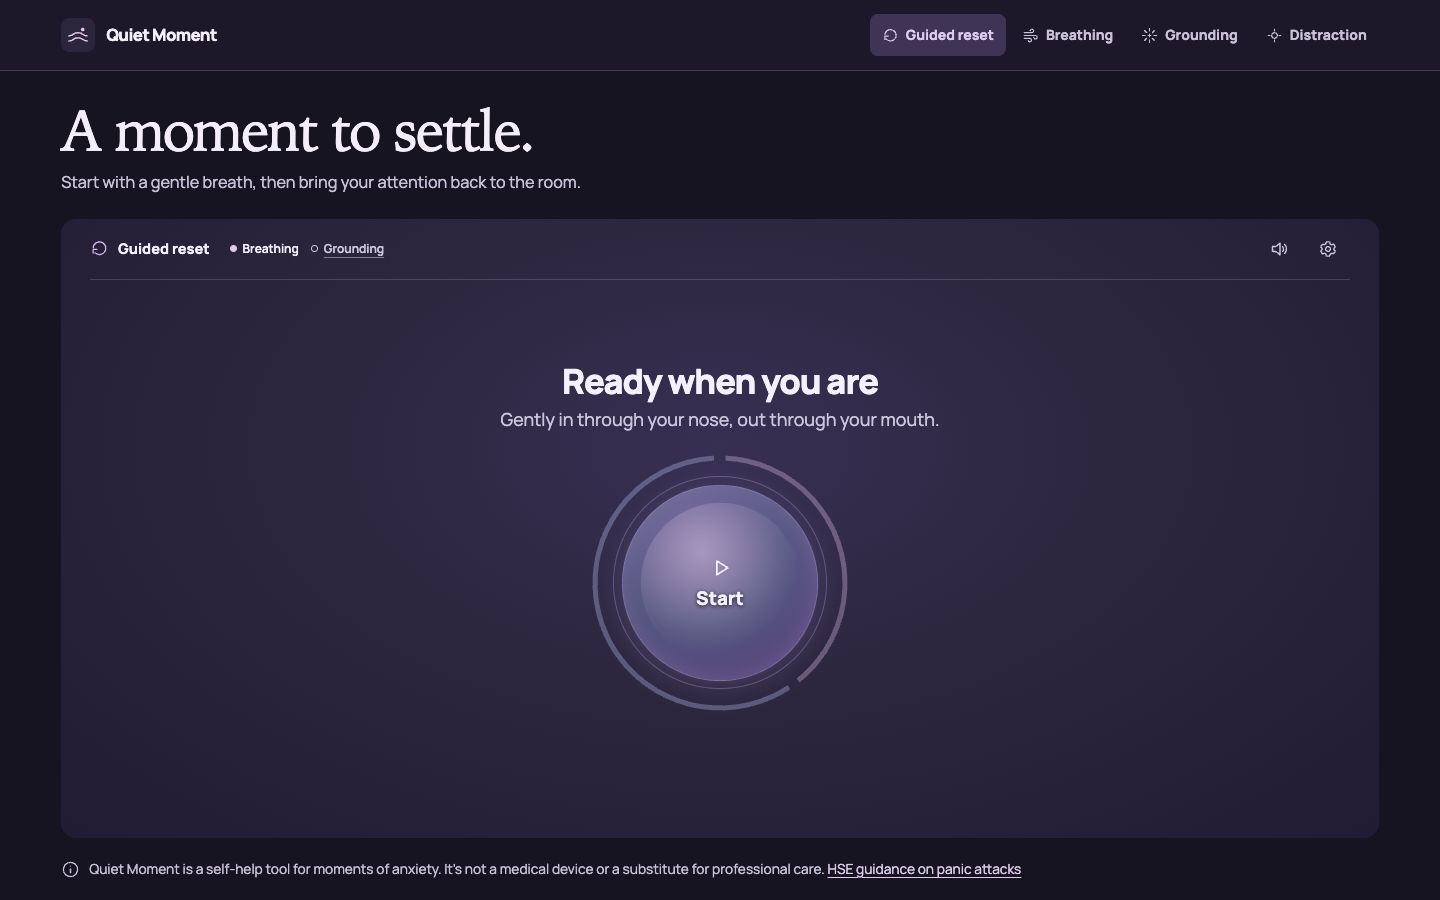
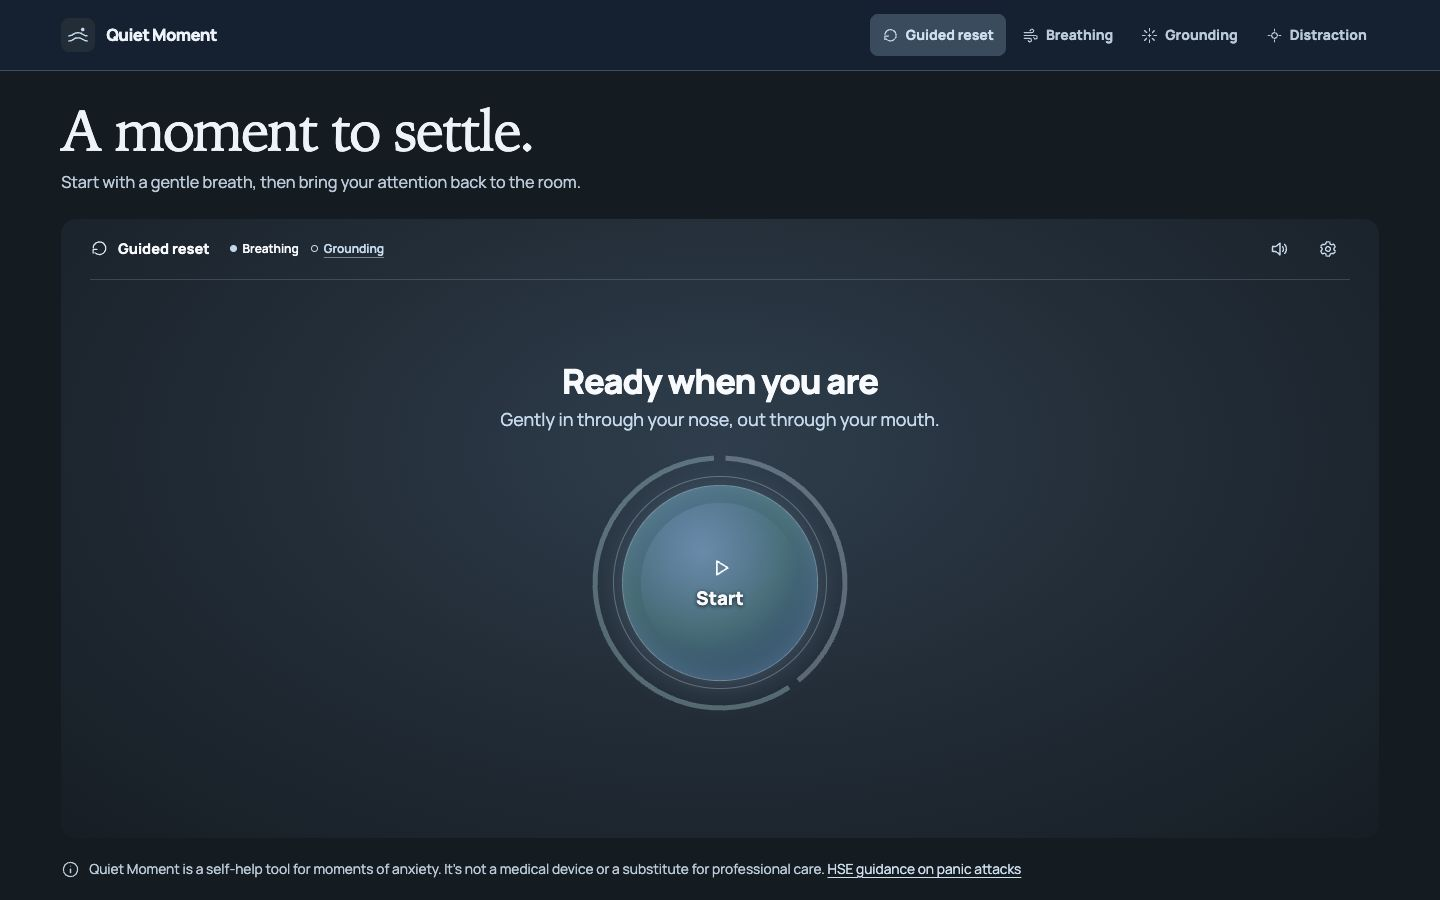
Show exercise settings and themes in the README

Changed region(s): [[0.4375, 0.5289, 0.5625, 0.7778], [0.5938, 0.0311, 0.6875, 0.0622]]

diff --git a/README.md b/README.md
@@ -1,61 +1,64 @@
 # Quiet Moment
 
-Guided breathing, sensory grounding, and simple distractions for anxious moments. Start by tapping the circle, or choose an exercise from the top of the page.
+Quiet Moment offers guided breathing, sensory grounding, and simple distractions for anxious moments.
 
-Try it out on https://quiet-moment-lovat.vercel.app/
+[Open Quiet Moment](https://quiet-moment-lovat.vercel.app/)
 
 > [!IMPORTANT]
 > **For general self-help only.** Quiet Moment offers guided exercises. Its scope excludes medical diagnosis, treatment, and medical-device functions. For medical advice or care, speak with a qualified healthcare professional.
 >
 > **If you need emergency help in Ireland, call 112 or 999.** If you’re elsewhere, call your local emergency number. [HSE guidance on urgent mental health help](https://www2.hse.ie/mental-health/services-support/get-urgent-help/)
 
+## Start a guided reset
+
+1. Choose **Guided reset** and tap **Start** in the centre of the circle. The default session starts with a short countdown and about a minute of guided breathing.
+2. Follow the cues in the circle. Tap the circle or **Pause** to take a break. Choose **Resume** to continue or **Reset** to go back to the start.
+3. Grounding opens automatically when breathing ends. Choose **Grounding** in the player header to move on sooner.
+
+![Guided reset in Ocean blue with the Start circle and both stages visible](docs/screenshots/desktop-quick-reset.jpg)
+
+## Choose an exercise
+
+Use the top navigation to open an exercise directly.
+
+| Breathing                                                                                        | Grounding                                                                                           | Distraction                                                                                  |
+| ------------------------------------------------------------------------------------------------ | --------------------------------------------------------------------------------------------------- | -------------------------------------------------------------------------------------------- |
+| ![Breathing with an inhale cue and countdown](docs/screenshots/desktop-breathing.jpg)            | ![Grounding with three of five things noticed](docs/screenshots/desktop-grounding.jpg)              | ![Distraction with a prompt to find round objects](docs/screenshots/desktop-distraction.jpg) |
+| Follow the circle as it expands and contracts. The ring shows your progress through each breath. | Use one sense at a time. **Change exercise** offers 5-4-3-2-1, Quick 3-2-1, and Orient to the room. | Try a small task, such as finding round objects nearby. Each prompt includes examples.       |
+
+In Grounding, **Count one** and **Undo** help you keep track. Counting is optional. Choose **Next** at your own pace or use **Back** to return to your previous count. The final button is **Finish** in Grounding and **Start over** in Distraction.
+
+## Customise your session
+
+Open the gear in the top-right corner of the player. Quiet Moment saves your choices in your browser.
+
+- **Timing.** Pick a breathing pace or set your own inhale, exhale, and hold times. Set a hold to zero to skip it. You can also change the session length, preparation countdown, and grounding exercise.
+- **Sound & voice.** Choose **Quiet**, **Soft lo-fi**, **Window rain**, **Slow tide**, or **Breathing lo-fi**. Use the chevron beside **Breathing lo-fi** to switch from the default **Velvet Tape** to **Warm Keys** or **Afterglow**. All three follow your breathing pace. Adjust background volume or enable spoken cues in supported browsers.
+- **Display.** Show or hide countdowns. Under **Breathing animation**, choose **Always animate**, **Follow system setting**, or **Keep circle still**. Appearance and colour theme are in the same tab.
+
+| Timing                                                                                                                                 | Sound & voice                                                                                             |
+| -------------------------------------------------------------------------------------------------------------------------------------- | --------------------------------------------------------------------------------------------------------- |
+| ![Custom breathing pace fields, session duration, preparation countdown, and grounding exercise](docs/screenshots/settings-timing.jpg) | ![Background sound choices, volume slider, and spoken cues checkbox](docs/screenshots/settings-sound.jpg) |
+
+### Colour themes
+
+Open **Settings → Display → Color theme** to change the palette. **Appearance** lets you choose **Light**, **Dark**, or **System** to follow your device. The walkthrough uses Ocean blue.
+
+|                           Ocean blue                            |                            Purple                            |                           Slate                            |
+| :-------------------------------------------------------------: | :----------------------------------------------------------: | :--------------------------------------------------------: |
+| ![Start circle in Ocean blue](docs/screenshots/theme-ocean.jpg) | ![Start circle in Purple](docs/screenshots/theme-purple.jpg) | ![Start circle in Slate](docs/screenshots/theme-slate.jpg) |
+
+## Use Quiet Moment on a phone
+
+The same exercises and settings are available in a single-column layout.
+
+<img src="docs/screenshots/mobile-breathing.jpg" alt="Ocean blue in Light appearance on a phone, showing the exhale countdown and Pause and Reset controls" width="320" />
+
 ## Find professional support
 
 - **Talk to a GP or find counselling.** The HSE explains how to access counselling and psychotherapy, including free and low-cost options. [HSE guide to getting talk therapy](https://www2.hse.ie/mental-health/services-support/talk-therapy/get/)
 - **Find mental health services in Ireland.** The HSE’s Your Mental Health information line can explain what services are available and how to access them. [Your Mental Health information line](https://www2.hse.ie/mental-health/services-support/your-mental-health-information-line/)
 - **Read about panic attacks and when to seek care.** [HSE guidance on panic attacks](https://www2.hse.ie/mental-health/issues/how-to-deal-with-panic-attacks/)
-
-## Start a guided reset
-
-1. Choose **Guided reset** and tap **Start** in the centre of the circle. With the default settings, there’s a short preparation countdown followed by about a minute of guided breathing.
-2. Follow the **In**, **Out**, and **Hold** cues in the circle at a pace that feels comfortable. Tap the circle or **Pause** to take a break. Tap again to resume, or choose **Reset** to go back to the start.
-3. When breathing ends, the app opens a grounding exercise. You can also choose **Grounding** in the player header during the session.
-
-![Guided reset in Purple on desktop, ready to start with Breathing and Grounding shown in the player header](docs/screenshots/desktop-quick-reset.jpg)
-
-## Choose an exercise
-
-### Breathing
-
-Choose **Breathing** for a session on its own. The cue shows when to breathe in through your nose and out through your mouth. The centre grows and shrinks with the breath. The outer ring fills clockwise once per cycle, with a notch at each cue change. Open the settings gear in the player header and choose a pace under **Timing** to see its inhale, exhale, and hold times, or set your own. Set either custom hold to zero to skip it.
-
-![Breathing in Ocean blue on desktop, showing an inhale countdown and Pause and Reset controls](docs/screenshots/desktop-breathing.jpg)
-
-### Grounding
-
-Work through the senses one at a time. If you want to keep count, tap **Count one** for each thing you notice. Use **Undo** to remove the last count. Choose **Next** whenever you’re ready, or **Back** to return to the previous prompt with its count intact. Choose **Finish** on the last prompt.
-
-Use **Change exercise** to pick the full 5-4-3-2-1 exercise, the quick 3-2-1 version, or **Orient to the room**, which uses prompts without counting.
-
-![Grounding in Slate on desktop, with the sight prompt and three of five items marked](docs/screenshots/desktop-grounding.jpg)
-
-### Distraction
-
-Try a small task, such as finding round objects nearby. Each prompt includes examples. Choose **Next** to continue at your own pace or **Start over** after the last prompt.
-
-![Distraction in Teal on desktop, showing the round-object prompt and three examples](docs/screenshots/desktop-distraction.jpg)
-
-## Use Quiet Moment on a phone
-
-The page adapts to the screen width automatically. On a phone, the exercise fills a single column. Open **Settings** with the gear in the player header.
-
-<img src="docs/screenshots/mobile-breathing.jpg" alt="Breathing on a phone in Teal with Light appearance, showing an exhale countdown and Pause and Reset controls" width="390" />
-
-## Set up your session
-
-- **Sound.** **Velvet Tape** plays by default when you start a breathing session. In Settings, open **Sound & voice** and use the chevron beside **Breathing lo-fi** to choose an arrangement. All three arrangements pulse on each count, change chords at phase boundaries, and pause and resume with the countdown. The sound and Settings buttons sit at the top right of the player.
-- **Spoken cues.** Open **Sound & voice** in Settings to enable spoken instructions in supported browsers.
-- **Animation and countdowns.** Open **Timing** to change the preparation countdown. **Display** has the countdown and animation controls. The circle still shows the breath cue if you hide the numbers. Animation is on by default. Choose **Follow system setting** or **Keep circle still** to change it.
 
 ## Open it locally or offline
 
@@ -73,7 +76,3 @@ Open [localhost:5173](http://localhost:5173/). To make your own offline copy, ru
 ### For contributors
 
 Quiet Moment uses Vue 3, TypeScript, Vite, and Tailwind CSS. Run `pnpm run check` for linting, formatting, type checks, tests, and a production build. The [contributor guide](AGENTS.md) maps the code and documents the behavior that tests and changes should preserve.
-
-## Appearance
-
-Open **Settings → Display → Appearance** to choose System, Light, or Dark. System follows your device. Use **Color theme** in the same panel to choose a palette. The desktop screenshots feature Purple, Ocean blue, Slate, and Teal. The phone screenshot shows Teal in Light appearance. Quiet Moment remembers both choices in your browser.
